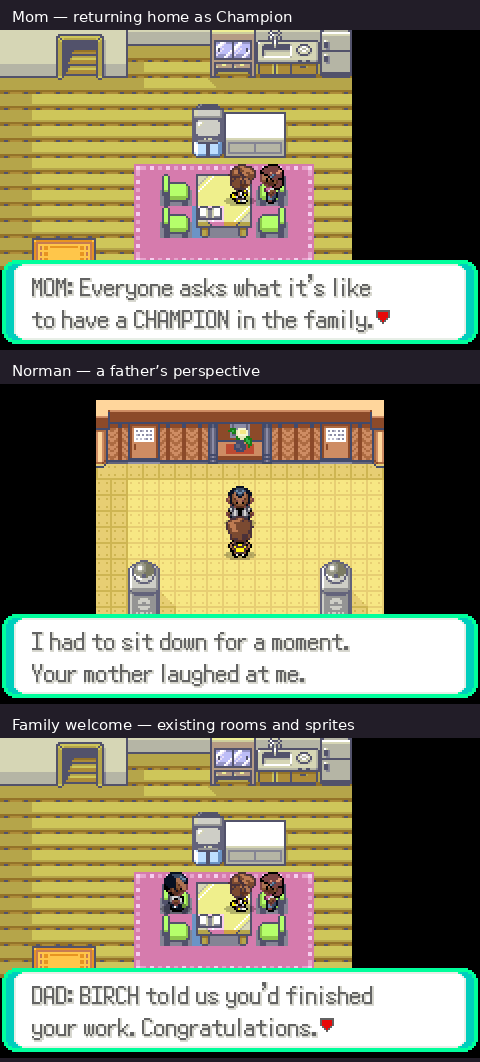
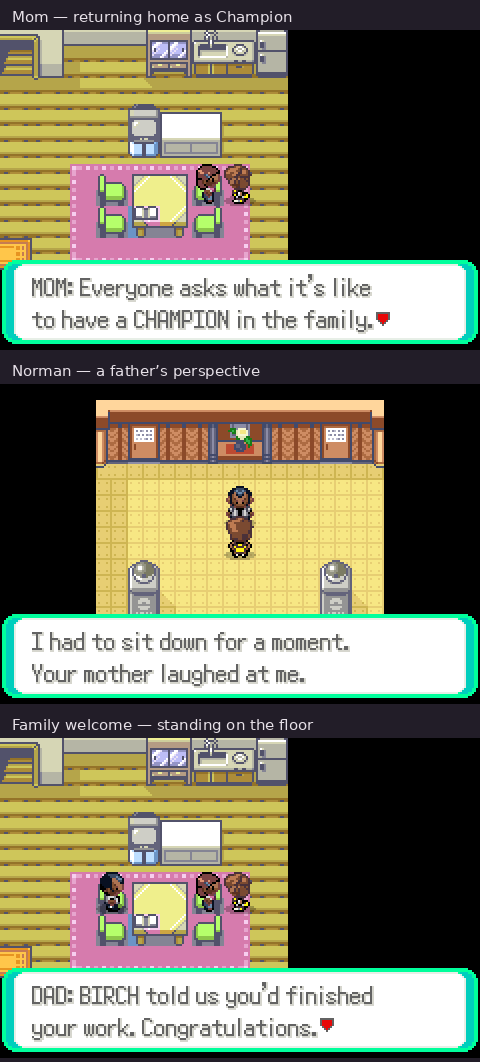
QA: correct homecoming preview floor placement and verify table collision [skip ci]

Changed region(s): [[0.0, 0.6525, 0.75, 0.9322], [0.0, 0.0, 0.75, 0.2486], [0.7812, 0.2797, 0.8125, 0.3107]]

diff --git a/tools/legends/native_homecoming_qa/host.c b/tools/legends/native_homecoming_qa/host.c
@@ -11,9 +11,11 @@ static struct mLogger logger={.log=quiet};
 static struct mCore *c; static color_t *video; static unsigned mainAddr,callback;
 static void frames(int n){while(n--)c->runFrame(c);}
 static void key(unsigned k){c->setKeys(c,k);frames(2);c->setKeys(c,0);frames(60);}
+static void move(unsigned k){c->setKeys(c,k);frames(12);c->setKeys(c,0);frames(60);}
 static void command(unsigned n,int count){c->busWrite32(c,0x0203fc00,n);c->busWrite32(c,mainAddr+4,callback);frames(count);}
 static unsigned box(int n){return c->busRead32(c,0x0203fc00+4*n);}
-static void capture(const char *dir,int gender,int page){char p[4096];snprintf(p,sizeof(p),"%s/%s-%02d.rgba",dir,gender==0?"male":gender==1?"female":gender==2?"mom":"norman",page);FILE *f=fopen(p,"wb");assert(f);assert(fwrite(video,4,240*160,f)==240*160);fclose(f);}
+static void capture(const char *dir,int gender,int page){frames(60);char p[4096];snprintf(p,sizeof(p),"%s/%s-%02d.rgba",dir,gender==0?"male":gender==1?"female":gender==2?"mom":"norman",page);FILE *f=fopen(p,"wb");assert(f);assert(fwrite(video,4,240*160,f)==240*160);fclose(f);}
+static void floorAt(int x,int y){command(2,2);assert(box(14)==x&&box(15)==y&&box(16)==0&&box(17)==0);}
 static void profile(void){command(2,2);assert(box(5)==0xb423&&box(6)==0xca03&&box(7)==3&&box(8)==2&&box(9)==3&&box(10)==1&&box(11)==3);}
 int main(int argc,char **argv){
  setbuf(stdout,NULL);mLogSetDefaultLogger(&logger);assert(argc==5);mainAddr=strtoul(argv[3],NULL,0);callback=strtoul(argv[4],NULL,0);
@@ -26,10 +28,12 @@ int main(int argc,char **argv){
   command(gender,400);profile();assert(box(1)==0xffff&&!box(2));
   unsigned appearance=box(4);
   command(3,1200);profile();assert(box(12)==1&&box(13)==1&&box(1)==0xffff&&box(4)==appearance);
-  key(gender?16:32);key(1);capture(argv[2],gender,0);
+  // Start on wood floor, then approach Mom with ordinary player input.
+  floorAt(gender?9:1,7);move(64);floorAt(gender?9:1,6);
+  move(gender?32:16);floorAt(gender?9:1,6);key(1);capture(argv[2],gender,0);
   int presses=0;unsigned last=0;
   for(;presses<65;presses++){
-   profile();last=box(1);if(!box(2))break;
+   profile();floorAt(gender?9:1,6);last=box(1);if(!box(2))break;
    key(1);capture(argv[2],gender,presses+1);
   }
   profile();printf("gender=%d presses=%d memory=%x script=%u dad=%u\n",gender,presses,box(1),box(2),box(3));
@@ -40,11 +44,17 @@ int main(int argc,char **argv){
   for(int n=0;n<14;n++){profile();assert(box(3)==16);if(!box(2))break;key(1);}
   profile();assert(!box(2)&&box(1)==0xd666);
   printf("gender=%d flash roundtrip and no-repeat passed\n",gender);
+  // Walk to the chair below Mom and try to enter the blocked table tile.
+  // This catches collision-off fixtures and accidental furniture spawns.
+  move(128);floorAt(gender?9:1,7);move(gender?32:16);floorAt(gender?8:2,7);
+  assert(box(18)!=0);move(gender?32:16);floorAt(gender?8:2,7);
+  printf("gender=%d normal table collision rejected movement; no-clip=%u\n",gender,box(17));
+  move(gender?16:32);move(64);move(gender?32:16);floorAt(gender?9:1,6);
  }
  command(4,2);key(1);
  for(int n=0;n<25;n++){profile();if(!box(2))break;capture(argv[2],2,n);key(1);}
  profile();assert(!box(2)&&box(1)==0xd604);
- command(5,400);key(64);key(1);
+ command(5,400);move(64);key(1);
  for(int n=0;n<25;n++){profile();if(!box(2))break;capture(argv[2],3,n);key(1);}
  profile();printf("personal Mom/Norman memory=%x script=%u\n",box(1),box(2));assert(!box(2)&&box(1)==0xd614);
  c->deinit(c);free(video);return 0;

diff --git a/tools/legends/native_homecoming_qa/run.py b/tools/legends/native_homecoming_qa/run.py
@@ -16,6 +16,6 @@ def main():
  run(['cc',str(src/'host.c'),'-I'+str(prefix/'include'),'-I'+str(prefix/'include/x86_64-linux-gnu'),'-L'+str(prefix/'lib/x86_64-linux-gnu'),'-lmgba','-o',str(out/'host')],'host-build.log')
  run([str(out/'host'),str(out/'private-homecoming.gba'),str(out),hex(mainaddr),hex(callback)],'emulator.log')
  for raw in out.glob('*.rgba'):Image.frombytes('RGBA',(240,160),raw.read_bytes()).convert('RGB').save(raw.with_suffix('.png'))
- proof={'version':(R/'VERSION').read_text().strip(),'passed':True,'emulator':'mGBA 0.10.2','variant':'Debug','ROM_sha256':hashlib.sha256((R/'pokeemerald.gba').read_bytes()).hexdigest(),'scope':'Controlled New Game setup of both home layouts and format-identical pre-feature state (not an authentic historical-release save). Actual Mom interaction, native family script and object cleanup, real flash save/clear/load before and after the welcome, retained non-default wardrobe/bedroom/seasons, and no repeat after reload; actual Champion-stage Mom and Norman Gym conversations. Private callback ROM excluded from distribution. Uninterrupted story and Pizza Boy remain unverified.','log':(out/'emulator.log').read_text(),'harness_sha256':{f:hashlib.sha256((src/f).read_bytes()).hexdigest() for f in ['arm.c','host.c','run.py']}}
+ proof={'version':(R/'VERSION').read_text().strip(),'passed':True,'emulator':'mGBA 0.10.2','variant':'Debug','ROM_sha256':hashlib.sha256((R/'pokeemerald.gba').read_bytes()).hexdigest(),'scope':'Controlled New Game setup of both home layouts and format-identical pre-feature state (not an authentic historical-release save). Passable floor spawns and real input approach to Mom; native table collision rejected movement with no-clip disabled in both layouts; unchanged walkable player position throughout the scene. Actual Mom interaction, native family script and object cleanup, real flash save/clear/load before and after the welcome, retained non-default wardrobe/bedroom/seasons, and no repeat after reload; actual Champion-stage Mom and Norman Gym conversations. Private callback ROM excluded from distribution. Uninterrupted story and Pizza Boy remain unverified.','log':(out/'emulator.log').read_text(),'harness_sha256':{f:hashlib.sha256((src/f).read_bytes()).hexdigest() for f in ['arm.c','host.c','run.py']}}
  (out/'verification.json').write_text(json.dumps(proof,indent=2)+'\n');print(json.dumps(proof,indent=2))
 if __name__=='__main__':main()

diff --git a/tools/legends/native_homecoming_qa/arm.c b/tools/legends/native_homecoming_qa/arm.c
@@ -7,6 +7,8 @@
 #include "event_object_movement.h"
 #include "script.h"
 #include "fieldmap.h"
+#include "field_player_avatar.h"
+#include "config/overworld.h"
 #include "task.h"
 #include "save.h"
 #include "pokemon.h"
@@ -22,7 +24,7 @@ static void room(void)
 {
     u16 map = gSaveBlock2Ptr->playerGender ? MAP_NUM(MAP_LITTLEROOT_TOWN_MAYS_HOUSE_1F) : MAP_NUM(MAP_LITTLEROOT_TOWN_BRENDANS_HOUSE_1F);
     SetWarpDestination(MAP_GROUP(MAP_LITTLEROOT_TOWN_BRENDANS_HOUSE_1F), map, -1,
-        gSaveBlock2Ptr->playerGender ? 7 : 3, 6);
+        gSaveBlock2Ptr->playerGender ? 9 : 1, 7);
     WarpIntoMap(); SetMainCallback2(CB2_LoadMap);
 }
 void qa(void)
@@ -63,6 +65,13 @@ void qa(void)
         gPartiesCount[B_TRAINER_PLAYER] = 1;
         room(); break;
     case 2:
+    {
+        s16 x, y;
+        PlayerGetDestCoords(&x, &y);
+        box[14] = x - MAP_OFFSET; box[15] = y - MAP_OFFSET;
+        box[16] = MapGridGetCollisionAt(x, y);
+        box[17] = OW_FLAG_NO_COLLISION && FlagGet(OW_FLAG_NO_COLLISION);
+        box[18] = MapGridGetCollisionAt((gSaveBlock2Ptr->playerGender ? 7 : 3) + MAP_OFFSET, 7 + MAP_OFFSET);
         box[1] = VarGet(VAR_LEGENDS_HOMECOMING_MEMORY);
         box[2] = ScriptContext_IsEnabled();
         box[3] = GetObjectEventIdByLocalIdAndMap(LOCALID_PLAYERS_HOUSE_1F_DAD,
@@ -73,6 +82,7 @@ void qa(void)
         box[7] = LegendsGetSkinTone(); box[8] = LegendsGetHair(); box[9] = LegendsGetHairColor();
         box[10] = LegendsGetSeasonMode(); box[11] = LegendsGetSeason();
         SetMainCallback2(CB2_Overworld); break;
+    }
     case 4:
         FlagClear(FLAG_LEGENDS_FINAL_HOENN_EPILOGUE); FlagClear(FLAG_LEGENDS_KANTO_WELCOMED);
         VarSet(VAR_LEGENDS_HOMECOMING_MEMORY, 0);

diff --git a/docs/qa/homecoming-v0.0.55.md b/docs/qa/homecoming-v0.0.55.md
@@ -2,7 +2,7 @@
 
 Status: **v0.0.55 published and verified**, through [PR #70](https://github.com/BabyCRTTV/pokeemerald-emerald-legends/pull/70). [Public receipts](homecoming-v0.0.55-public.json).
 
-[Native preview](homecoming-v0.0.55-preview.png) · [Local/build/BPS receipt](homecoming-v0.0.55-local.json) · [Native/flash receipt](homecoming-v0.0.55-native.json)
+[Corrected native preview](homecoming-v0.0.55-preview.png) · [Floor/collision follow-up](homecoming-v0.0.55-floor.json) · [Local/build/BPS receipt](homecoming-v0.0.55-local.json) · [Native/flash receipt](homecoming-v0.0.55-native.json)
 
 ## Authorized scope
 
@@ -29,6 +29,14 @@ Controlled mGBA 0.10.2 checks used the normal Debug ROM with a private setup cal
 The prepared fixture uses the unchanged pre-feature save layout and current native save readers. It is not an authentic historical-release battery save. No schema migration was needed, and no claim is made for the unfinished historical-save matrix. Reproducible harness source is in `tools/legends/native_homecoming_qa/`. Private ROMs/saves are excluded.
 
 Uninterrupted story traversal, the full historical-save matrix and Pizza Boy remain broader QA work. Private QA ROMs are never distributed.
+
+## Preview placement correction — 15 October 2026
+
+The owner spotted the player standing on the table in the original preview. The controlled QA warp had placed the avatar on blocked furniture at Brendan (3,6) / May (7,6); collision was never disabled. The shipped scene does not move the player. This was a fixture and preview error, not evidence that furniture was walkable.
+
+The corrected harness starts on wood floor at (1,7) / (9,7), approaches Mom with ordinary input and asserts that the player remains on the same passable floor tile throughout dialogue. After the real flash round trip it walks beside the table and verifies that native collision rejects entry in both layouts, with no-clip disabled. Both family scenes, cleanup, retained settings, persistence and no-repeat checks passed again. Champion Mom/Norman conversations also passed. The preview was recaptured from this run; native pixels are still enlarged exactly 2×.
+
+[Fresh receipt](homecoming-v0.0.55-floor.json) records the harness, frames and corrected preview hashes. Original native/public receipts remain historical records of the earlier run and original preview hash, and did not establish collision coverage. No runtime source, approved art, map, ROM, BPS or version changed, so no new game release or duplicate ROM build was required. Private callback ROMs and saves remain excluded.
 
 ## Publication
 

diff --git a/docs/DEVELOPMENT-HANDOFF.md b/docs/DEVELOPMENT-HANDOFF.md
@@ -18,6 +18,8 @@ Signed memory reuses verified-unused native var 0x406A: signature 0xD600, Mom bi
 
 [PR #70](https://github.com/BabyCRTTV/pokeemerald-emerald-legends/pull/70) merged as `6522c1bf050c7bd8fdeefaf3e9f237afb81a276e`; patch commit `043c1f0a649024c533650b098727c2d32c803505` and patch Pages 38719293587 succeeded. Both live patches independently reconstructed the exact locally/native-tested ROMs; patch growth was 1,635/2,474 bytes (Release/Debug). All release site files, guide and preview matched committed bytes. [Implementation/native QA](qa/homecoming-v0.0.55.md), [public receipts](qa/homecoming-v0.0.55-public.json), [phone-friendly preview](qa/homecoming-v0.0.55-preview.png). No publication blocker remains. The developer-site refresh stays deferred.
 
+The owner caught a table-standing avatar in the v0.0.55 preview. This was a controlled QA warp onto blocked furniture; the shipped scene never moves the player and collision was enabled. The corrected harness approaches from floor, verifies a passable stationary player throughout, and confirms native table collision in both houses. Both scenes, flash/no-repeat and settings checks passed again; the preview was recaptured. [Correction evidence](qa/homecoming-v0.0.55-floor.json) supersedes the original preview/placement coverage; original publication receipts remain historical. ROM/BPS/version/art/maps stayed unchanged.
+
 ## Protected v0.0.54 OPTION-card baseline
 
 The approved title-menu OPTION card now displays the version at the far right: `v0.0.54` for Release and `v0.0.54-D` for Debug. Keep the native FONT_NORMAL, header palette, y=1 baseline and all-layout helper for window IDs 1/4/5/6. Both title strings are guarded by the version metadata check. Existing inside-Options headers remain synchronized. No gameplay, artwork, serialized layout, identifiers, capacities or readers changed. The developer-site visual refresh remains deferred.

diff --git a/tools/legends/native_homecoming_qa/README.md b/tools/legends/native_homecoming_qa/README.md
@@ -2,6 +2,6 @@
 
 Build Debug, then run `python3 tools/legends/native_homecoming_qa/run.py --output /tmp/homecoming-qa --prefix /path/to/usr` with ARM tools on PATH and libmgba development files at the prefix. Requires Pillow and mGBA 0.10.2.
 
-The runner adds a controlled setup callback only to a private ROM copy. It prepares both home layouts with completed native and finale gates, an invalid legacy conversation word, and non-default wardrobe/bedroom/season settings. Normal emulated interaction talks to Mom and runs the shipped scene. Assertions cover actual flash write/clear/load before and after, successful object cleanup, completed memory, retained settings and no repeat after reload. Native frame captures and verification JSON are emitted only after success.
+The runner adds a controlled setup callback only to a private ROM copy. It prepares both home layouts with completed native and finale gates, an invalid legacy conversation word, and non-default wardrobe/bedroom/season settings. The player starts on wood floor and approaches Mom with normal emulated input. Assertions require a passable stationary player throughout the shipped scene and no-clip disabled, then try to enter blocked table tiles after reload in both houses. Never warp the player beside Mom on table tiles (the original fixture mistake). Assertions cover actual flash write/clear/load before and after, successful object cleanup, completed memory, retained settings and no repeat after reload. Native frame captures and verification JSON are emitted only after success.
 
 This is a reproducible format-identical pre-feature fixture, not an authentic historical-release save or uninterrupted playthrough. Never publish the private ROM, save or full output directory. Commit only the harness source, selected captures and verification receipt.
